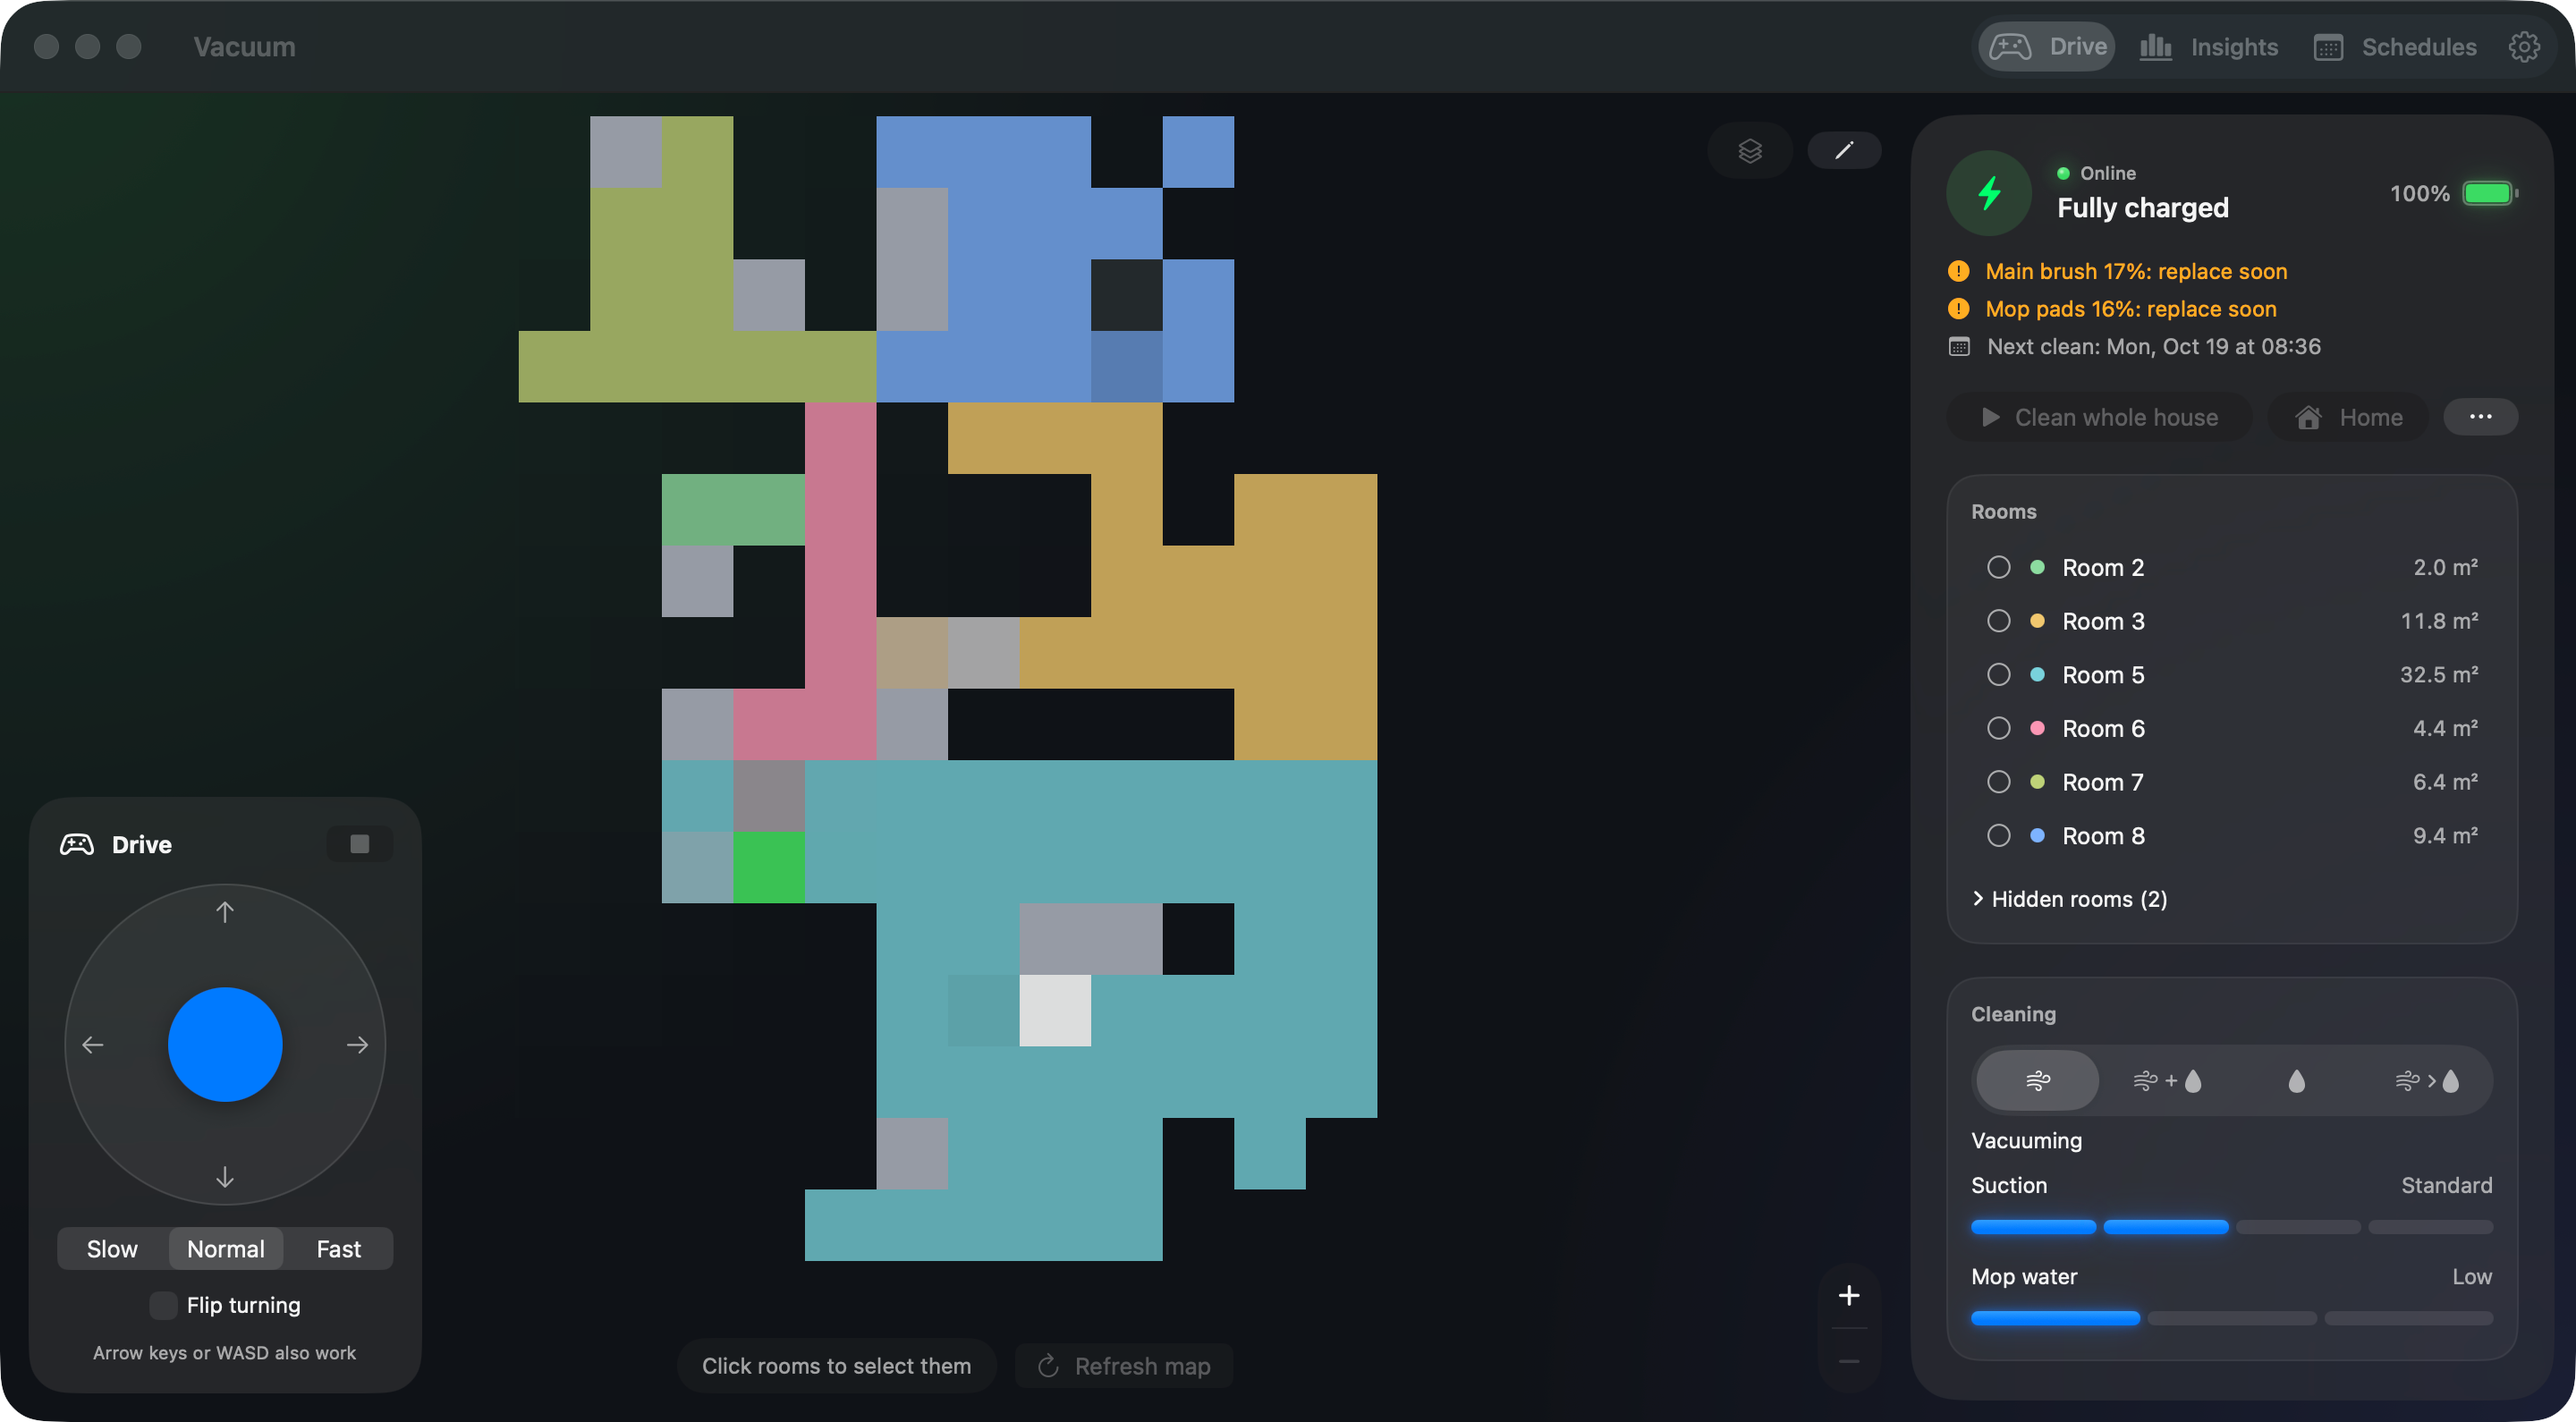
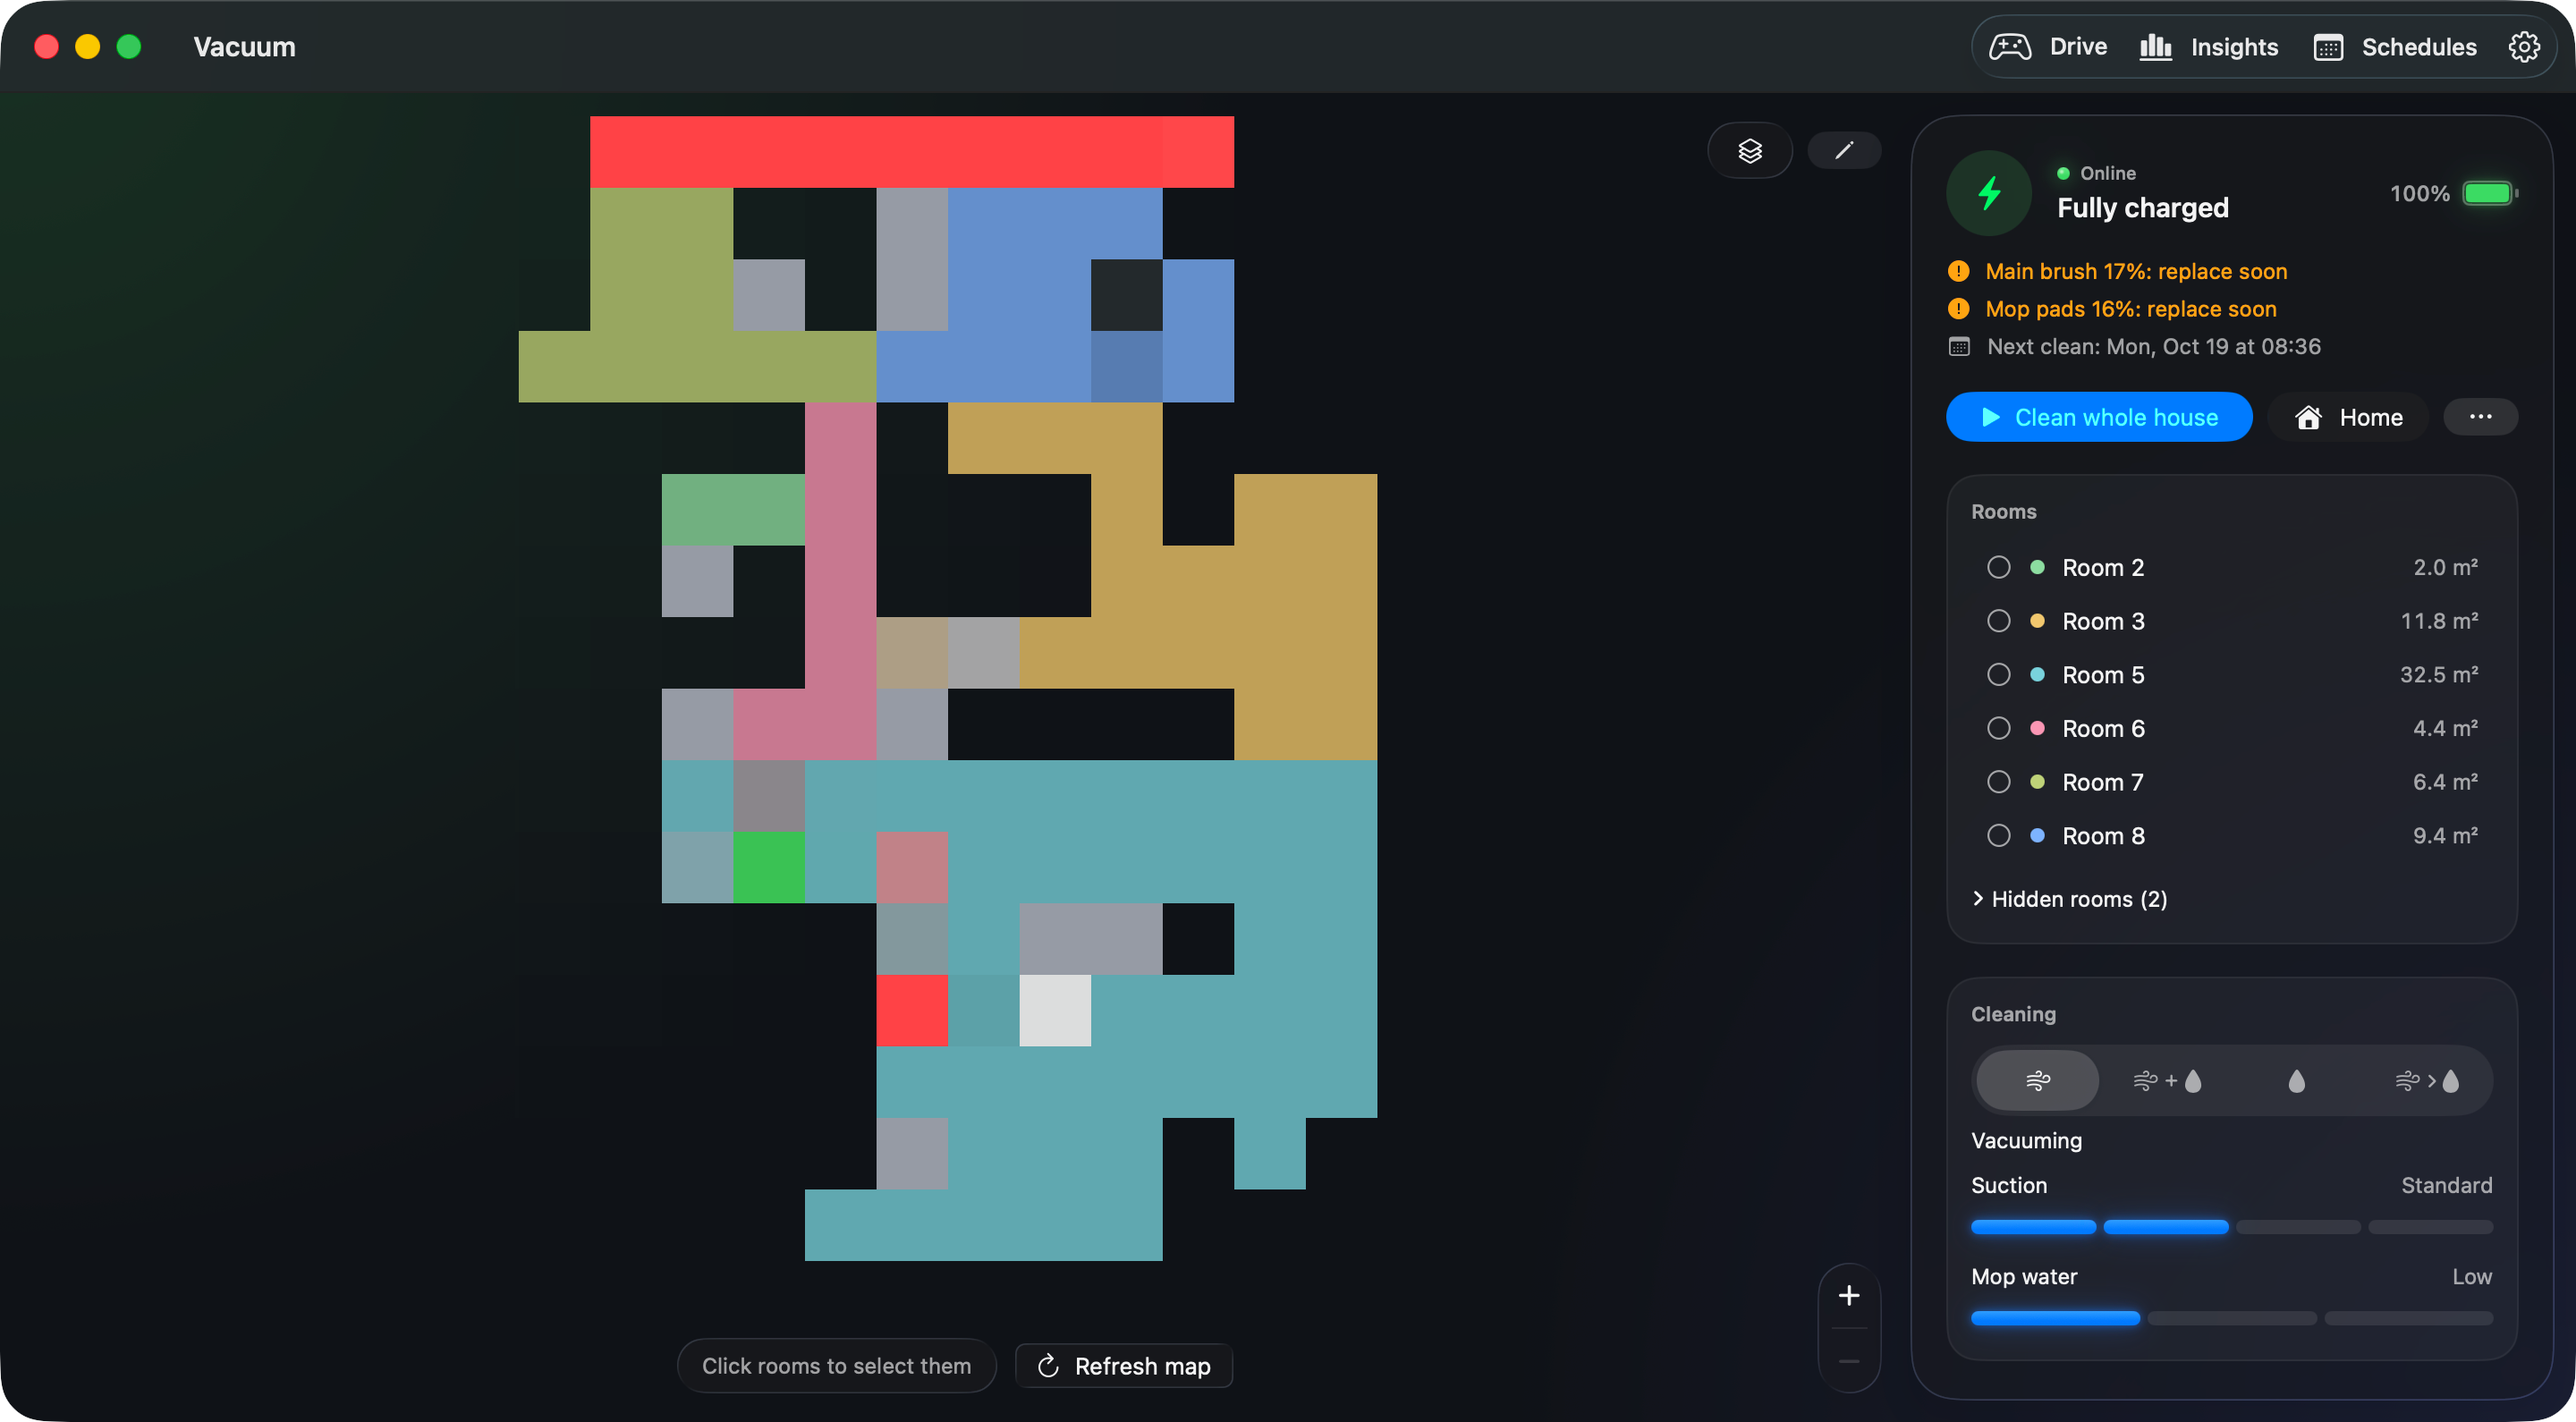
README: show insights, schedules, furniture and zones; Drive as a side note

diff --git a/README.md b/README.md
@@ -8,29 +8,34 @@ A native macOS app for the **Xiaomi Robot Vacuum X20+** (`xiaomi.vacuum.c102gl`)
 
 ## Features
 
-- **Live map** with the robot's position and cleaning path, zoom and pan.
-- **Clean by room:** click the rooms you want, then press Start. Rooms can be renamed or hidden.
-- **Robot controls:** start, stop, go home, empty the bin and locate the robot, plus suction, mop and cleaning mode.
-- **Zones and walls:** draw no-go zones, no-mop zones and virtual walls, with restore of the previous layout.
-- **Room editing:** merge or divide rooms.
-- **Furniture:** place furniture on the map for reference.
-- **Schedules:** create, edit and delete scheduled cleans.
-- **Insights:** cleaning history, per-room stats and problems the robot reported.
-- **Parts and settings:** brush, filter and mop pad life, do-not-disturb hours.
-- **Drive:** control the robot by hand (see below).
+### Map and cleaning
+A live map with the robot's position and cleaning path, with zoom and pan. Click the rooms you want and press **Start**, or clean the whole house. Rooms can be renamed or hidden, and the panel shows the robot's status, battery, suction, mop level and cleaning mode, plus start, stop, home, empty bin and locate.
 
-### Drive the robot by hand
+### Insights
+Cleaning history at a glance: cleans, area and time per week compared with the last one, totals since you got the robot, and how often each room was cleaned. Open it from **Insights** in the toolbar.
 
-Click **Drive** (gamepad icon) in the toolbar. A joystick appears at the bottom left of the map, so you can watch the robot while you drive.
+<p align="center"><img src="docs/images/insights.png" width="460" alt="Insights"></p>
 
-![Drive pad](docs/images/drive.png)
+### Schedules
+Create, edit, enable and delete scheduled cleans, per day and per room. Open it from **Schedules** in the toolbar.
 
-- Drag the stick, or use the **arrow keys** or **WASD**. Let go to stop.
-- Pick **Slow**, **Normal** or **Fast**.
-- If the robot turns the opposite way from the stick, tick **Flip turning**.
-- **Stop** (or switching Drive off) halts the robot and leaves manual mode.
+<p align="center"><img src="docs/images/schedules.png" width="460" alt="Schedules"></p>
 
-> If you don't see **Drive**, widen the window: macOS hides toolbar items behind a **»** menu when there isn't room.
+### Furniture and belongings
+Place furniture on the map (sofa, bed, fridge, plants, toys and more), then drag to move and resize. It helps you recognize each room and what the robot has to go around. Open it from the pencil button on the map, **Furniture and belongings**.
+
+<p align="center"><img src="docs/images/furniture.png" width="230" alt="Furniture picker"></p>
+
+### Walls, zones and rooms
+From the same pencil menu you can draw **no-go zones**, **no-mop zones** and **virtual walls** and save them to the robot (the previous layout can be restored), and **merge or divide rooms**.
+
+<p align="center"><img src="docs/images/zones.png" width="520" alt="Zone tools"></p>
+
+### Parts and settings
+Brush, filter and mop pad life with a reset after you replace them, and do-not-disturb hours. Open it with the gear icon.
+
+### Also
+There is a hidden **Drive** toggle in the toolbar that lets you steer the robot by hand with a joystick, the arrow keys or WASD. Keep an eye on the robot while you use it.
 
 ## Install
 
